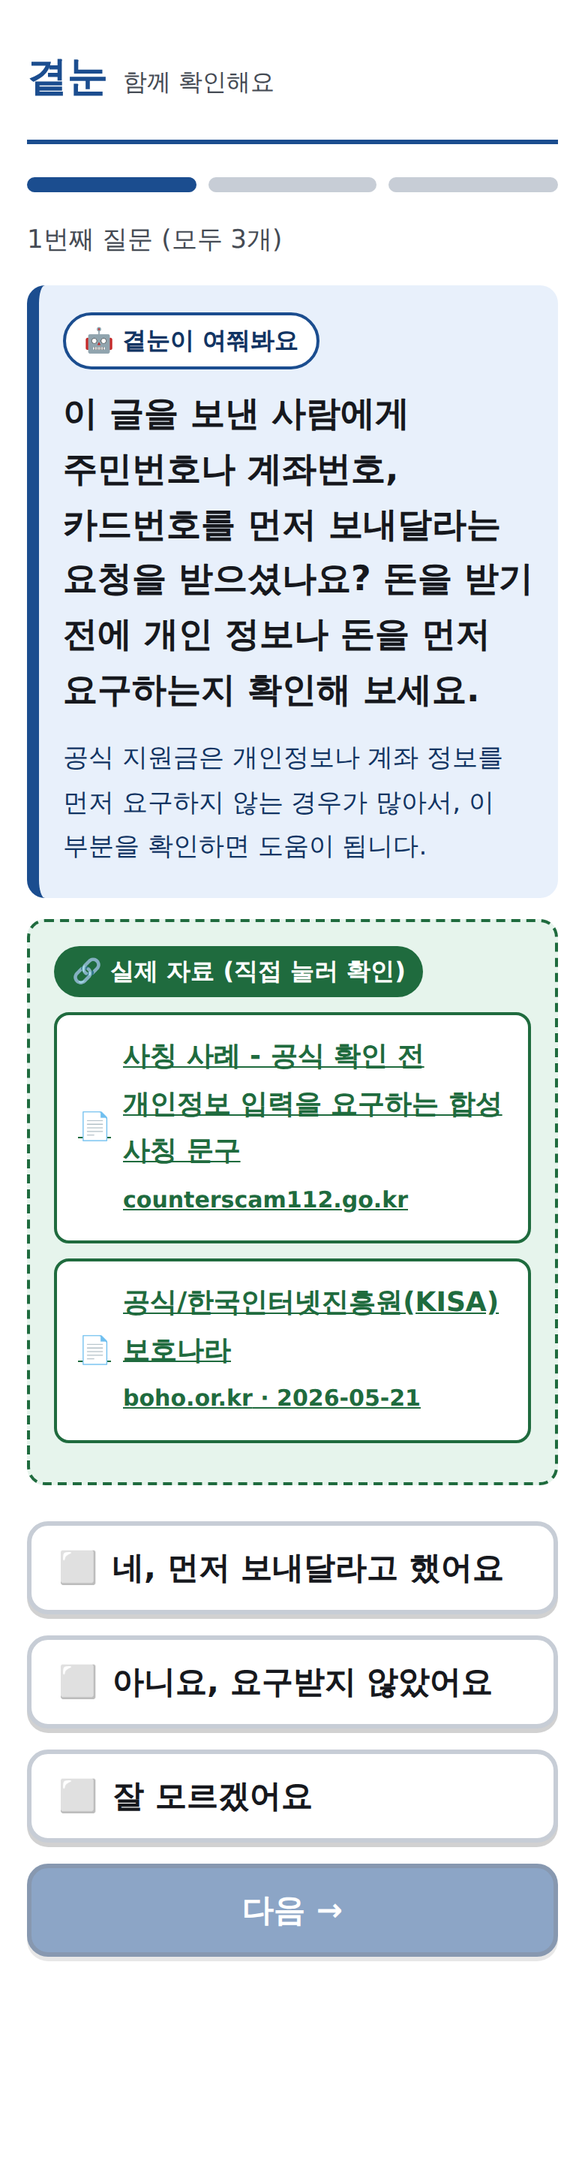
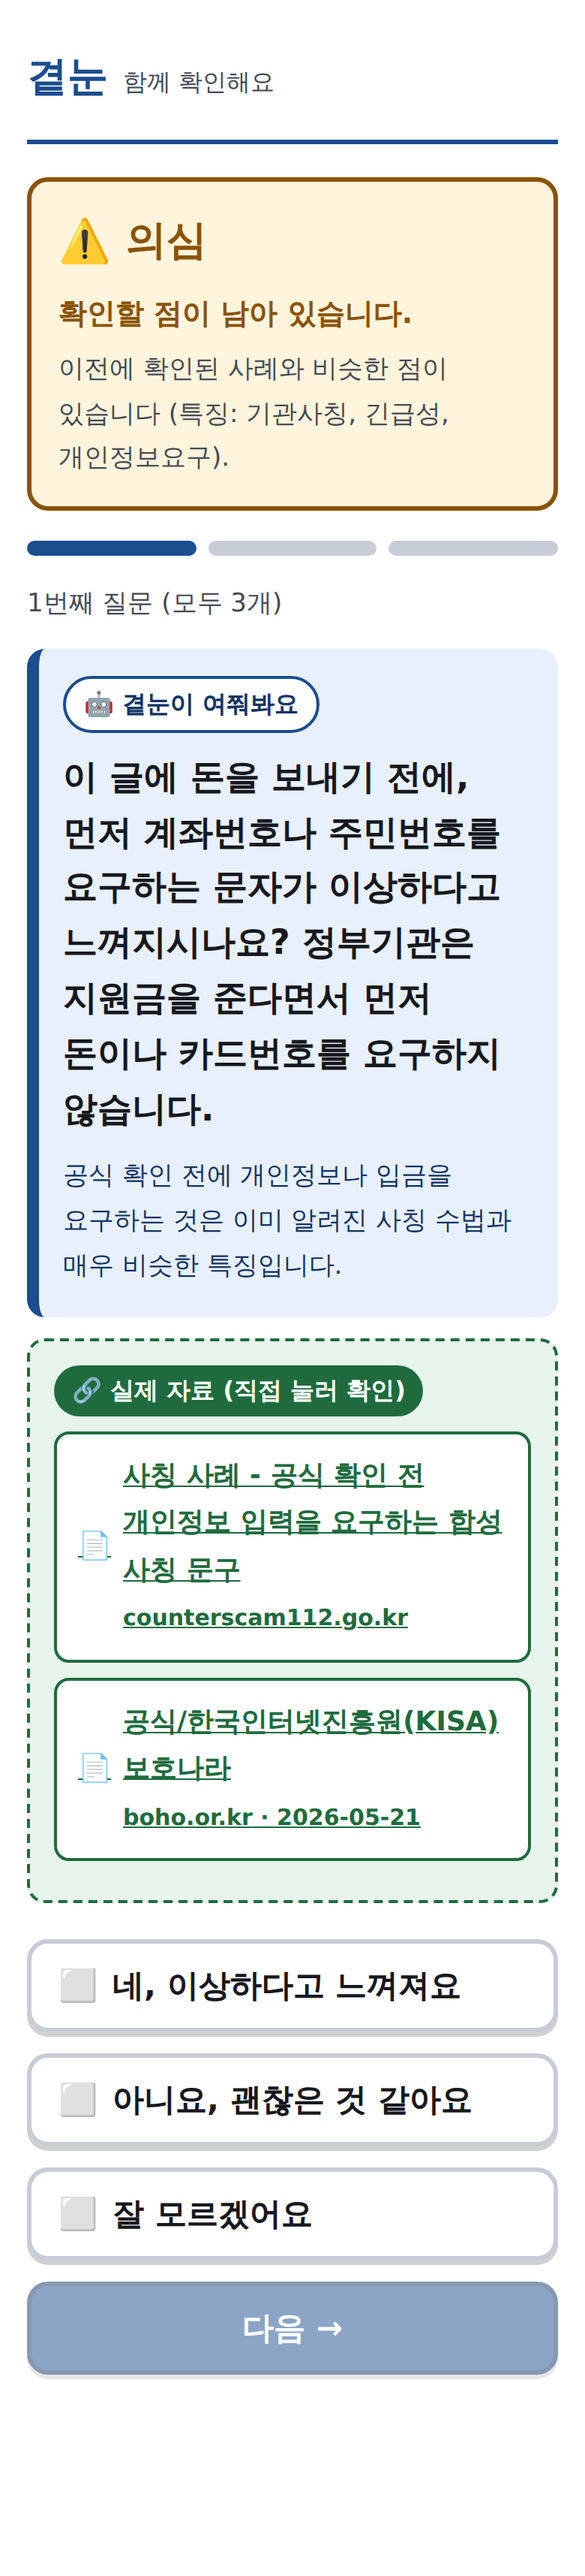
feat(s3): 확인 결과 배지(확인됨/의심/확인 불가) 3단계 추가
verdict_hint 만 그대로 옮기면 official_source_found(severity=info)가 항상
signals 를 채워 needs_check 가 사실상 나오지 않는 백엔드 특성이 있어,
signals 의 severity(attention 여부)를 함께 봐서 3단계를 정확히 가른다.
배지+근거 요약은 질문보다 먼저(로딩/에러 중에도) 뜨고, 아이콘+문구를 항상
병기해 색만으로 구분하지 않는다. 근거 요약 한 줄은 실제 references/signals 에서
동적으로 뽑는다(하드코딩 없음). similar_scam_case 신호의 원문 라벨에 있는
'사기' 표현은 순화해서 노출한다.

Playwright(verify_verdict_badge.mjs)로 3단계 실제 렌더링 확인, 기존
e2e_screenshots.mjs 전체 흐름도 배지 포함 재검증(콘솔 에러 없음),
docs/demo/02_question.png 갱신.

Claude-Session: https://claude.ai/code/session_015T7gMvd4ejSkt5zHQZ1f9p

diff --git a/web/src/pages/Question.jsx b/web/src/pages/Question.jsx
@@ -15,6 +15,79 @@
 import { useEffect, useRef, useState } from 'react'
 import { getQuestion } from '../api.js'
 
+/**
+ * 확인 결과 배지 (S3 상단, 질문보다 먼저 보여준다)
+ * ★ verdict_hint 하나만 그대로 옮기지 않는다. search.py 의 official_source_found /
+ *   contact_in_image 신호는 severity="info"(문제 신호 아님)라서, 공식 자료를 찾았을
+ *   뿐인데도 partially_matched 가 찍히는 경우가 있다. severity="attention" 신호가
+ *   실제로 있을 때만 '의심'으로 올리고, 그 외엔 verdict_hint 의 no_source_found 여부로
+ *   '확인 불가' 를 가른다 - verdict_hint 와 signals 를 함께 봐야 정확하다.
+ */
+const VERDICT_TIERS = {
+  confirmed: {
+    label: '확인됨',
+    icon: '✅',
+    desc: '공식 자료에서 확인됐습니다.',
+    className: 'tier-ok',
+  },
+  suspicious: {
+    label: '의심',
+    icon: '⚠',
+    desc: '확인할 점이 남아 있습니다.',
+    className: 'tier-warn',
+  },
+  unknown: {
+    label: '확인 불가',
+    icon: '❓',
+    desc: '공식 자료에서 확인하지 못했습니다.',
+    className: 'tier-unknown',
+  },
+}
+
+function verdictTier(evidence) {
+  if (evidence?.verdict_hint === 'no_source_found') return 'unknown'
+  const hasAttentionSignal = (evidence?.signals || []).some((s) => s.severity === 'attention')
+  return hasAttentionSignal ? 'suspicious' : 'confirmed'
+}
+
+// 배지 아래 한 줄 근거 요약 - 실제 references/signals 에서만 뽑는다(지어내지 않는다)
+function evidenceSummary(evidence, tier) {
+  const refs = evidence?.references || []
+  if (tier === 'unknown') {
+    return '공식 자료에서 같은 이름의 공고나 안내를 찾지 못했습니다.'
+  }
+  const publishers = [...new Set(refs.map((r) => r.publisher).filter(Boolean))].slice(0, 2).join('·')
+  if (tier === 'suspicious') {
+    // ★ similar_scam_case 신호의 원문 label 은 "...사기 수법과 비슷합니다"처럼
+    //   금지어를 그대로 담고 있다. 괄호 안 실제 상세정보(특징/오판유형)는 그대로 살리고
+    //   표현만 순화한다 - 데이터를 지어내지 않으면서 단정적 단어만 피한다.
+    const scamSignal = (evidence?.signals || []).find((s) => s.key === 'similar_scam_case')
+    if (scamSignal) {
+      const detail = scamSignal.label.match(/\(([^)]+)\)/)?.[1]
+      return detail
+        ? `이전에 확인된 사례와 비슷한 점이 있습니다 (${detail}).`
+        : '이전에 확인된 사례와 비슷한 점이 있습니다.'
+    }
+    return publishers ? `${publishers} 자료와 다른 점이 있어 확인이 필요합니다.` : '확인할 점이 남아 있습니다.'
+  }
+  return publishers ? `${publishers}에서 같은 내용을 확인했습니다.` : '공식 자료에서 같은 내용을 확인했습니다.'
+}
+
+function VerdictBadge({ evidence }) {
+  const tier = verdictTier(evidence)
+  const t = VERDICT_TIERS[tier]
+  return (
+    <div className={`verdict-badge ${t.className}`}>
+      <div className="verdict-head">
+        <span className="verdict-icon" aria-hidden="true">{t.icon}</span>
+        <span className="verdict-label">{t.label}</span>
+      </div>
+      <p className="verdict-desc">{t.desc}</p>
+      <p className="verdict-summary">{evidenceSummary(evidence, tier)}</p>
+    </div>
+  )
+}
+
 export default function Question({ checkId, evidence, onDone }) {
   const [turn, setTurn] = useState(1)
   const [data, setData] = useState(null)
@@ -58,11 +131,27 @@ export default function Question({ checkId, evidence, onDone }) {
     return found || { url: u, title: u, publisher: '', published_at: '' }
   })
 
-  if (loading) return <div className="loading"><div className="spinner" /><p className="lead">질문을 준비하고 있어요</p></div>
-  if (error) return <div className="error-box">{error}</div>
+  // ★ 결과(배지)를 먼저, 질문은 그 다음 - 로딩/에러 중에도 배지는 계속 보여준다
+  if (loading) {
+    return (
+      <>
+        {evidence && <VerdictBadge evidence={evidence} />}
+        <div className="loading"><div className="spinner" /><p className="lead">질문을 준비하고 있어요</p></div>
+      </>
+    )
+  }
+  if (error) {
+    return (
+      <>
+        {evidence && <VerdictBadge evidence={evidence} />}
+        <div className="error-box">{error}</div>
+      </>
+    )
+  }
 
   return (
     <>
+      {evidence && <VerdictBadge evidence={evidence} />}
       <div className="progress" aria-label={`3단계 중 ${turn}단계`}>
         {[1, 2, 3].map((i) => <span key={i} className={i <= turn ? 'on' : ''} />)}
       </div>

diff --git a/web/src/styles.css b/web/src/styles.css
@@ -31,6 +31,9 @@
 
   --danger: #A32020;
 
+  --unknown: #4A4A55;           /* 확인 불가 - 회색/보라 계열, 파랑·초록·주황과 구분 */
+  --unknown-soft: #ECECF2;
+
   /* 타이포 */
   --fs-body: 19px;              /* ★ 본문 18px 이상 */
   --fs-lead: 21px;
@@ -184,6 +187,33 @@ p  { font-size: var(--fs-body); margin: 0 0 14px; }
   text-decoration: underline;
 }
 .source-empty { font-size: 17px; color: var(--warn); font-weight: 700; }
+
+/* ------------------------------------------------------ 확인 결과 배지 (S3 상단)
+   ★ 색만으로 구분하지 않는다 - 아이콘 + 글자 라벨을 항상 함께 쓴다(색각이상 고려).
+   테두리 색은 보조 신호일 뿐, 실제 구분은 아이콘(✅/⚠/❓)과 글자(확인됨/의심/확인 불가)로 한다. */
+.verdict-badge {
+  border: 3px solid var(--line);
+  border-radius: var(--radius);
+  padding: 16px 18px;
+  margin-bottom: 20px;
+}
+.verdict-head { display: flex; align-items: center; gap: 10px; margin-bottom: 8px; }
+.verdict-icon { font-size: 28px; line-height: 1; }
+.verdict-label { font-size: var(--fs-title); font-weight: 800; }
+.verdict-desc { font-size: var(--fs-body); font-weight: 700; margin: 0 0 6px; }
+.verdict-summary { font-size: 17px; color: var(--text-sub); margin: 0; }
+
+.verdict-badge.tier-ok { background: var(--source-soft); border-color: var(--source); }
+.verdict-badge.tier-ok .verdict-label,
+.verdict-badge.tier-ok .verdict-desc { color: var(--source); }
+
+.verdict-badge.tier-warn { background: var(--warn-soft); border-color: var(--warn); }
+.verdict-badge.tier-warn .verdict-label,
+.verdict-badge.tier-warn .verdict-desc { color: var(--warn); }
+
+.verdict-badge.tier-unknown { background: var(--unknown-soft); border-color: var(--unknown); }
+.verdict-badge.tier-unknown .verdict-label,
+.verdict-badge.tier-unknown .verdict-desc { color: var(--unknown); }
 
 /* ------------------------------------------------------ 신호/배지 */
 .signal {
